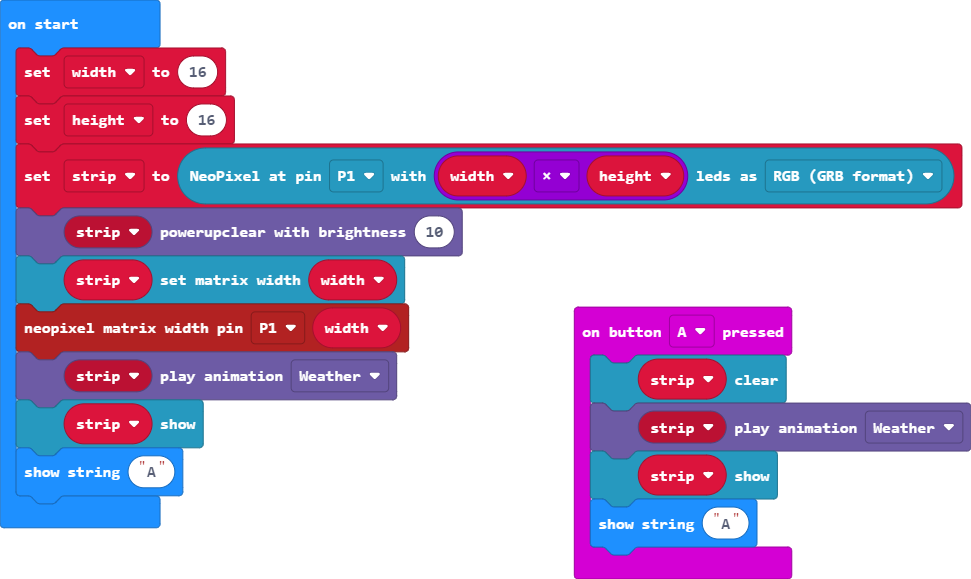
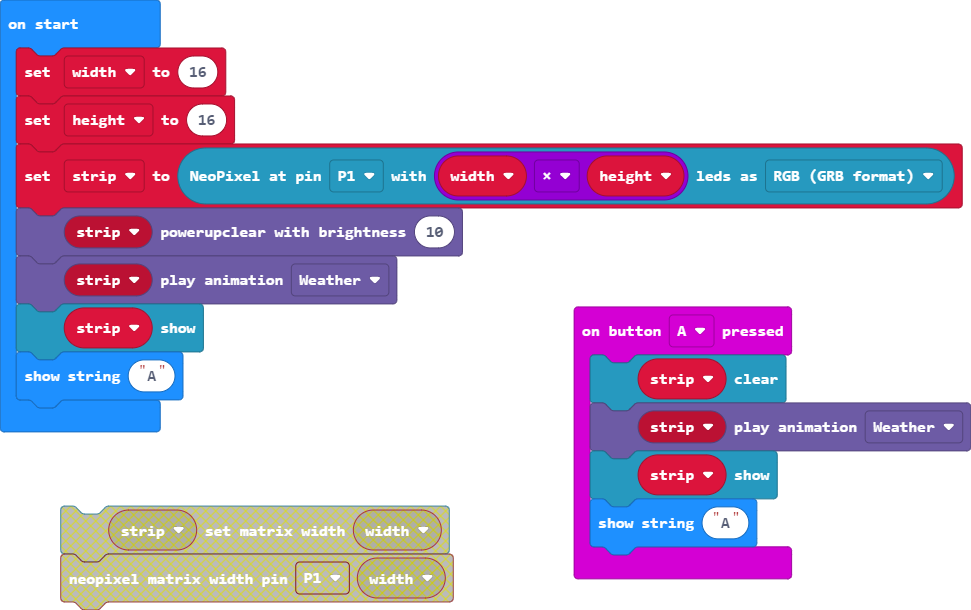
Update main.blocks, main.ts

diff --git a/main.ts b/main.ts
@@ -9,8 +9,6 @@ let width = 16
 let height = 16
 strip = neopixel.create(DigitalPin.P1, width * height, NeoPixelMode.RGB)
 EPXDisplay.powerupclear(strip, 10)
-strip.setMatrixWidth(width)
-pins.setMatrixWidth(DigitalPin.P1, width)
 EPXDisplay.play(strip, EPXAnimations.Weather)
 strip.show()
 basic.showString("A")
